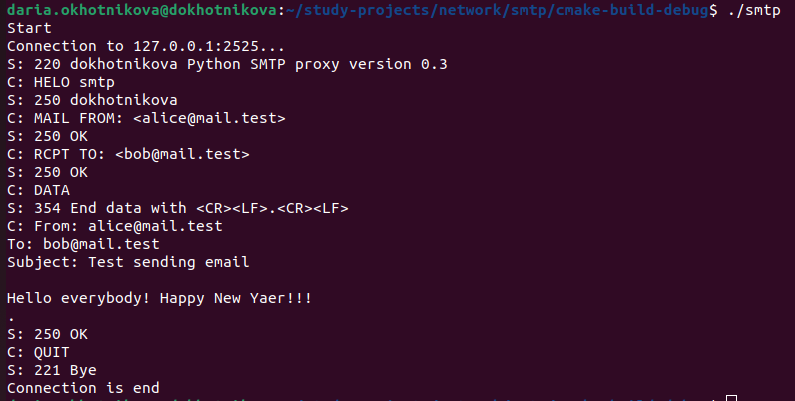
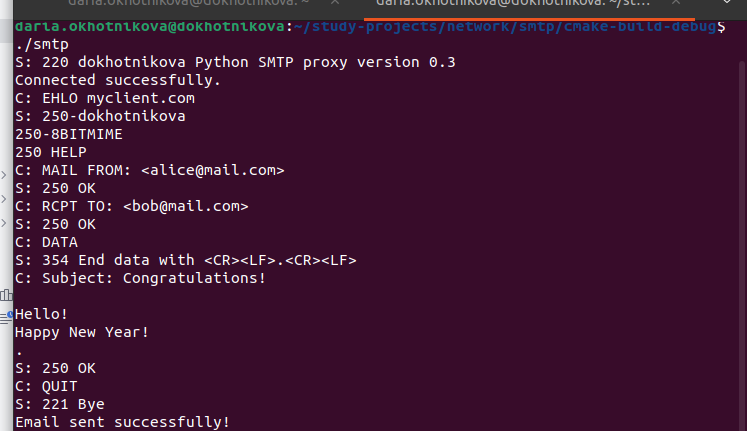
smtp правки

Changed region(s): [[0.0, 0.0, 1.0, 1.0], [0.9853, 0.1496, 1.0, 1.0], [0.8929, 0.9875, 0.9237, 1.0]]

diff --git a/smtp/SmtpClient.cpp b/smtp/SmtpClient.cpp
@@ -1,146 +1,131 @@
 #include "SmtpClient.h"
-#include <arpa/inet.h>
-#include <cstring>
 #include <iostream>
-#include <sstream>
-#include <stdexcept>
+#include <cstring>
 #include <sys/socket.h>
+#include <arpa/inet.h>
 #include <unistd.h>
+#include <netdb.h>
 
-SmtpClient::SmtpClient(const std::string &serverIp, const int port) :
-    m_socket(-1), m_serverIp(serverIp), m_port(port), m_isConnected(false)
-{
+using namespace std;
+
+SmtpClient::SmtpClient(const string& server, int m_port)
+    : m_serverHost(server), m_port(m_port), m_clientSocket(-1), m_isConnected(false) {}
+
+SmtpClient::~SmtpClient() {
+    if (m_isConnected && m_clientSocket != -1) {
+        close(m_clientSocket);
+    }
 }
 
-SmtpClient::~SmtpClient() { Disconnect(); }
+string SmtpClient::GetIpByHostname(const string& hostname) {
+    struct hostent* he;
+    struct in_addr** addrList;
+    he = gethostbyname(hostname.c_str());
+    if (he == NULL) return "";
+    addrList = (struct in_addr**)he->h_addr_list;
+    return inet_ntoa(*addrList[0]);
+}
 
-void SmtpClient::Connect()
-{
-    if (m_isConnected)
-        return;
+string SmtpClient::ReadLine() {
+    string line = "";
+    char c;
+    while (read(m_clientSocket, &c, 1) > 0) {
+        line += c;
+        if (line.length() >= 2 && line.substr(line.length() - 2) == "\r\n") {
+            break;
+        }
+    }
+    return line;
+}
 
-    m_socket = socket(AF_INET, SOCK_STREAM, 0);
-    if (m_socket < 0)
-    {
-        throw std::runtime_error("Error creating socket");
+void SmtpClient::SendCommand(const string& command) {
+    cout << "C: " << command;
+    write(m_clientSocket, command.c_str(), command.length());
+}
+
+bool SmtpClient::ExpectResponse(int expectedCode) {
+    string fullResponse = "";
+    string lastLine = "";
+
+    while (true) {
+        lastLine = ReadLine();
+        fullResponse += lastLine;
+        if (lastLine.length() < 4) break;
+        if (lastLine[3] == ' ') break;
     }
 
-    sockaddr_in serverAddr = {};
+    cout << "S: " << fullResponse;
+
+    if (fullResponse.empty()) return false;
+
+    try {
+        int actualCode = stoi(fullResponse.substr(0, 3));
+        return actualCode == expectedCode;
+    } catch (...) {
+        return false;
+    }
+}
+
+bool SmtpClient::ConnectToServer() {
+    m_clientSocket = socket(AF_INET, SOCK_STREAM, 0);
+    if (m_clientSocket < 0) {
+        cerr << "Error creating socket" << endl;
+        return false;
+    }
+
+    string serverIp = GetIpByHostname(m_serverHost);
+    if (serverIp.empty()) {
+        cerr << "Could not resolve hostname" << endl;
+        return false;
+    }
+
+    struct sockaddr_in serverAddr;
     serverAddr.sin_family = AF_INET;
     serverAddr.sin_port = htons(m_port);
+    inet_pton(AF_INET, serverIp.c_str(), &serverAddr.sin_addr);
 
-    if (inet_pton(AF_INET, m_serverIp.c_str(), &serverAddr.sin_addr) <= 0)
-    {
-        close(m_socket);
-        throw std::runtime_error("Invalid IP address");
+    if (connect(m_clientSocket, (struct sockaddr*)&serverAddr, sizeof(serverAddr)) < 0) {
+        cerr << "Connection failed" << endl;
+        return false;
     }
 
-    std::cout << "Connection to " << m_serverIp << ":" << m_port << "..." << std::endl;
-
-    if (connect(m_socket, (sockaddr *) &serverAddr, sizeof(serverAddr)) < 0)
-    {
-        close(m_socket);
-        throw std::runtime_error("No such connection");
+    if (!ExpectResponse(220)) {
+        close(m_clientSocket);
+        return false;
     }
 
     m_isConnected = true;
-
-    std::string response;
-    ReadResponse(response);
-    CheckResponse(response, 220);
+    return true;
 }
 
-void SmtpClient::Disconnect()
-{
-    if (m_isConnected && m_socket >= 0)
-    {
-        close(m_socket);
-        m_socket = -1;
-        m_isConnected = false;
-        std::cout << "Connection is end" << std::endl;
-    }
-}
-
-void SmtpClient::ReadResponse(std::string &responseBuffer)
-{
-    char buffer[4096];
-    std::memset(buffer, 0, sizeof(buffer));
-
-    ssize_t bytesRead = read(m_socket, buffer, sizeof(buffer) - 1);
-    if (bytesRead < 0)
-    {
-        throw std::runtime_error("Error reading from socket");
+bool SmtpClient::SendEmail(const string& sender, const string& recipient, const string& subject, const string& body) {
+    if (!m_isConnected) {
+        cerr << "Not connected to server" << endl;
+        return false;
     }
 
-    responseBuffer = std::string(buffer);
-    std::cout << "S: " << responseBuffer;
-    if (responseBuffer.back() != '\n')
-        std::cout << std::endl;
-}
+    SendCommand("EHLO myclient.com\r\n");
+    if (!ExpectResponse(250)) return false;
 
-void SmtpClient::SendRaw(const std::string &data)
-{
-    std::cout << "C: " << data;
-    if (write(m_socket, data.c_str(), data.length()) < 0)
-    {
-        throw std::runtime_error("Error writing to socket");
-    }
-}
+    SendCommand("MAIL FROM: <" + sender + ">\r\n");
+    if (!ExpectResponse(250)) return false;
 
-void SmtpClient::CheckResponse(const std::string &response, int expectedCode)
-{
-    std::string codeStr = std::to_string(expectedCode);
-    if (response.substr(0, 3) != codeStr)
-    {
-        std::stringstream ss;
-        ss << "Error SMTP. Waiting code " << expectedCode << ", receive response: " << response;
-        throw std::runtime_error(ss.str());
-    }
-}
+    SendCommand("RCPT TO: <" + recipient + ">\r\n");
+    if (!ExpectResponse(250)) return false;
 
-void SmtpClient::SendCommand(const std::string &command, const std::string &argument, int expectedCode)
-{
-    std::stringstream ss;
-    ss << command;
-    if (!argument.empty())
-    {
-        ss << " " << argument;
-    }
-    ss << "\r\n";
+    SendCommand("DATA\r\n");
+    if (!ExpectResponse(354)) return false;
 
-    SendRaw(ss.str());
+    string fullMessage = "Subject: " + subject + "\r\n\r\n" + body + "\r\n.\r\n";
+    SendCommand(fullMessage);
+    if (!ExpectResponse(250)) return false;
 
-    std::string response;
-    ReadResponse(response);
-    CheckResponse(response, expectedCode);
-}
+    SendCommand("QUIT\r\n");
+    ExpectResponse(221);
 
-void SmtpClient::SendMail(const std::string &sender, const std::string &recipient, const std::string &subject,
-                          const std::string &body)
-{
-    SendCommand("HELO", "smtp", 250);
+    close(m_clientSocket);
+    m_isConnected = false;
+    m_clientSocket = -1;
 
-    std::string fromArg = "<" + sender + ">";
-    SendCommand("MAIL FROM:", fromArg, 250);
-
-    std::string toArg = "<" + recipient + ">";
-    SendCommand("RCPT TO:", toArg, 250);
-
-    SendCommand("DATA", "", 354);
-
-    std::stringstream emailContent;
-    emailContent << "From: " << sender << "\r\n";
-    emailContent << "To: " << recipient << "\r\n";
-    emailContent << "Subject: " << subject << "\r\n";
-    emailContent << "\r\n";
-    emailContent << body << "\r\n";
-    emailContent << ".\r\n";
-
-    SendRaw(emailContent.str());
-
-    std::string response;
-    ReadResponse(response);
-    CheckResponse(response, 250);
-
-    SendCommand("QUIT", "", 221);
+    return true;
 }

diff --git a/smtp/main.cpp b/smtp/main.cpp
@@ -1,32 +1,32 @@
-#include "SmtpClient.h"
 #include <iostream>
-#include <stdexcept>
+#include "SmtpClient.h"
 
-const std::string SERVER_IP = "127.0.0.1";
-constexpr int SERVER_PORT = 2525;
-const std::string SENDER_EMAIL = "alice@mail.test";
-const std::string RECIPIENT_EMAIL = "bob@mail.test";
+using namespace std;
 
 int main() {
-    std::cout << "Start" << std::endl;
+    string smtpServer = "127.0.0.1";
+    int m_port = 1025;
 
-    try {
-        SmtpClient client(SERVER_IP, SERVER_PORT);
+    string sender = "alice@mail.com";
+    string recipient = "bob@mail.com";
+    string subject = "Congratulations!";
+    string body = "Hello!\nHappy New Year!";
 
-        client.Connect();
+    SmtpClient client(smtpServer, m_port);
 
-        client.SendMail(
-            SENDER_EMAIL,
-            RECIPIENT_EMAIL,
-            "Test sending email",
-            "Hello everybody! Happy New Yaer!!!"
-        );
+    if (client.ConnectToServer()) {
+        cout << "Connected successfully." << endl;
 
-    } catch (const std::exception& e) {
-        std::cerr << "[CRITICAL ERROR]: " << e.what() << std::endl;
+        if (client.SendEmail(sender, recipient, subject, body)) {
+            cout << "Email sent successfully!" << endl;
+        } else {
+            cerr << "Failed to send email." << endl;
+            return 1;
+        }
+    } else {
+        cerr << "Failed to connect to server." << endl;
         return 1;
     }
 
-    std::cout << "End" << std::endl;
     return 0;
 }

diff --git a/smtp/SmtpClient.h b/smtp/SmtpClient.h
@@ -5,23 +5,25 @@
 
 class SmtpClient {
 public:
-    SmtpClient(const std::string& serverIp, int port);
+    SmtpClient(const std::string& server, int m_port);
     ~SmtpClient();
 
-    void Connect();
-    void SendCommand(const std::string& command, const std::string& argument, int expectedCode);
-    void SendMail(const std::string& sender, const std::string& recipient, const std::string& subject, const std::string& body);
-    void Disconnect();
+    bool ConnectToServer();
+
+    bool SendEmail(const std::string& sender,
+                   const std::string& recipient,
+                   const std::string& subject,
+                   const std::string& body);
 
 private:
-    int m_socket;
-    std::string m_serverIp;
+    std::string m_serverHost;
     int m_port;
+    int m_clientSocket;
     bool m_isConnected;
-
-    void ReadResponse(std::string& responseBuffer);
-    void SendRaw(const std::string& data);
-    void CheckResponse(const std::string& response, int expectedCode);
+    std::string GetIpByHostname(const std::string& hostname);
+    std::string ReadLine();
+    void SendCommand(const std::string& command);
+    bool ExpectResponse(int expectedCode);
 };
 
 #endif // SMTP_CLIENT_HPP
